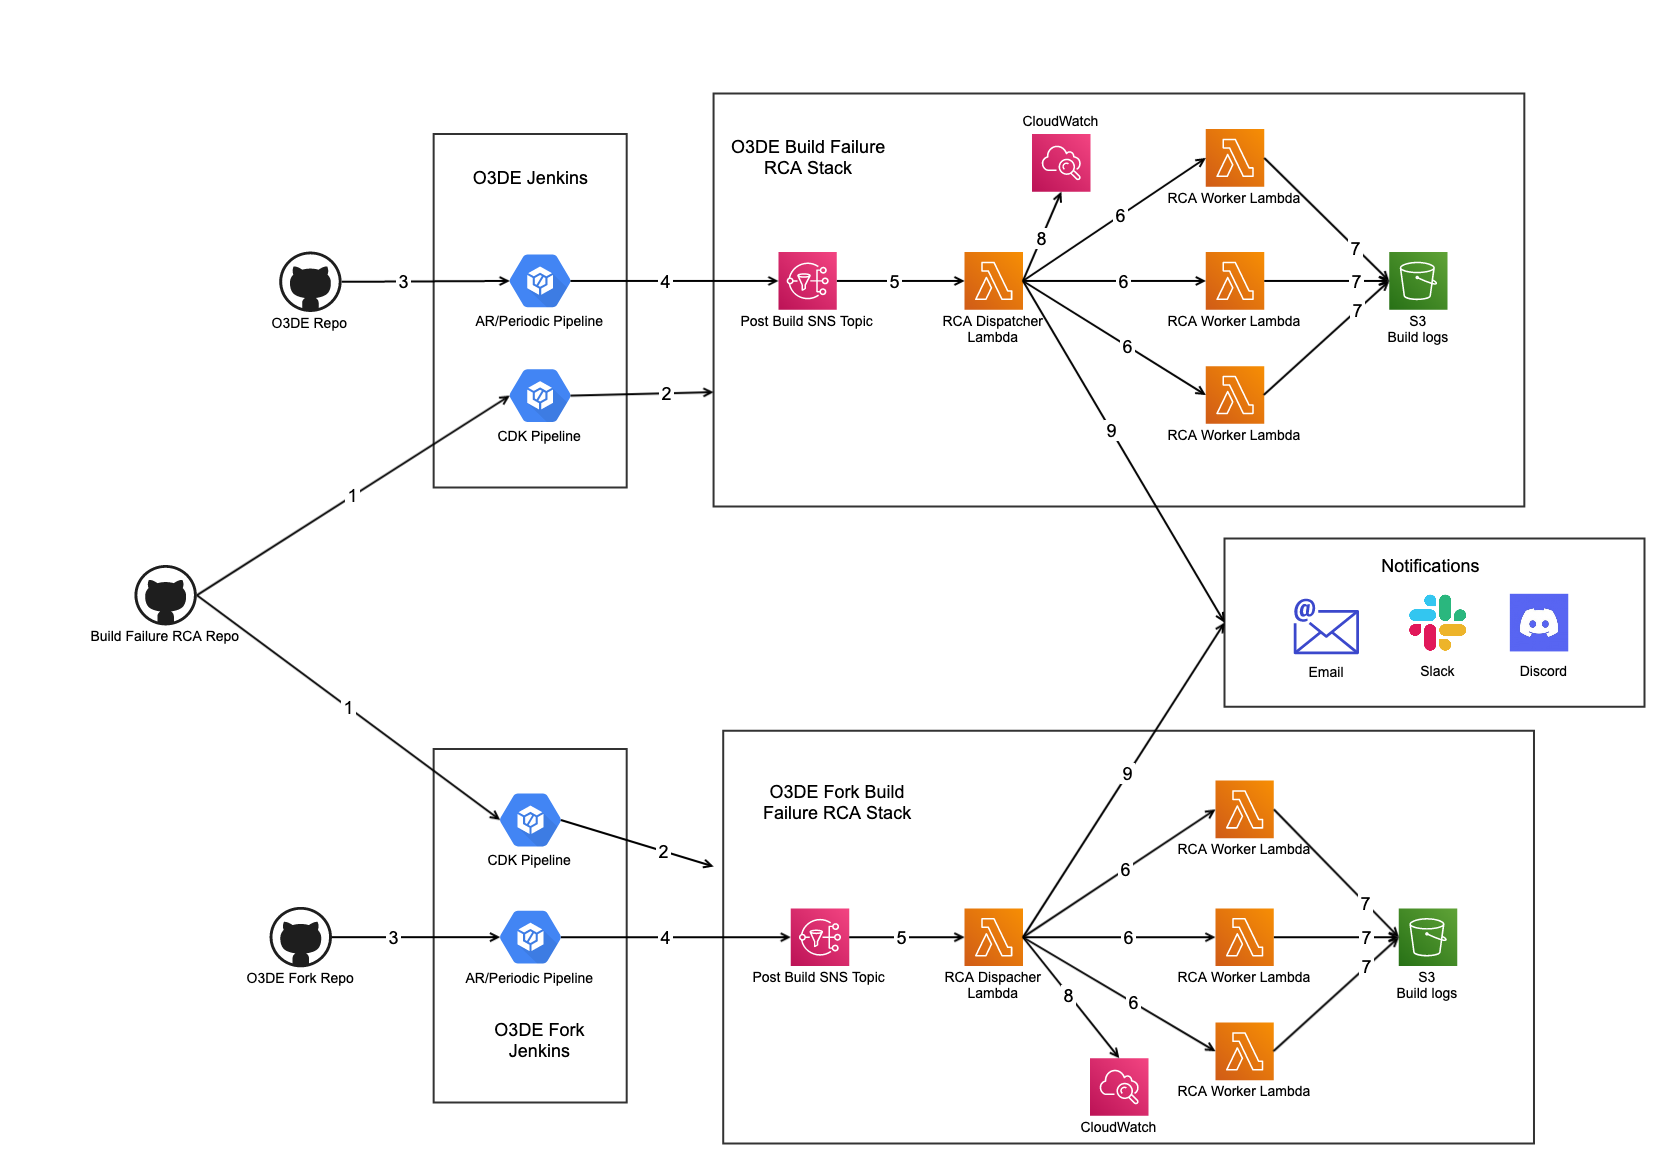
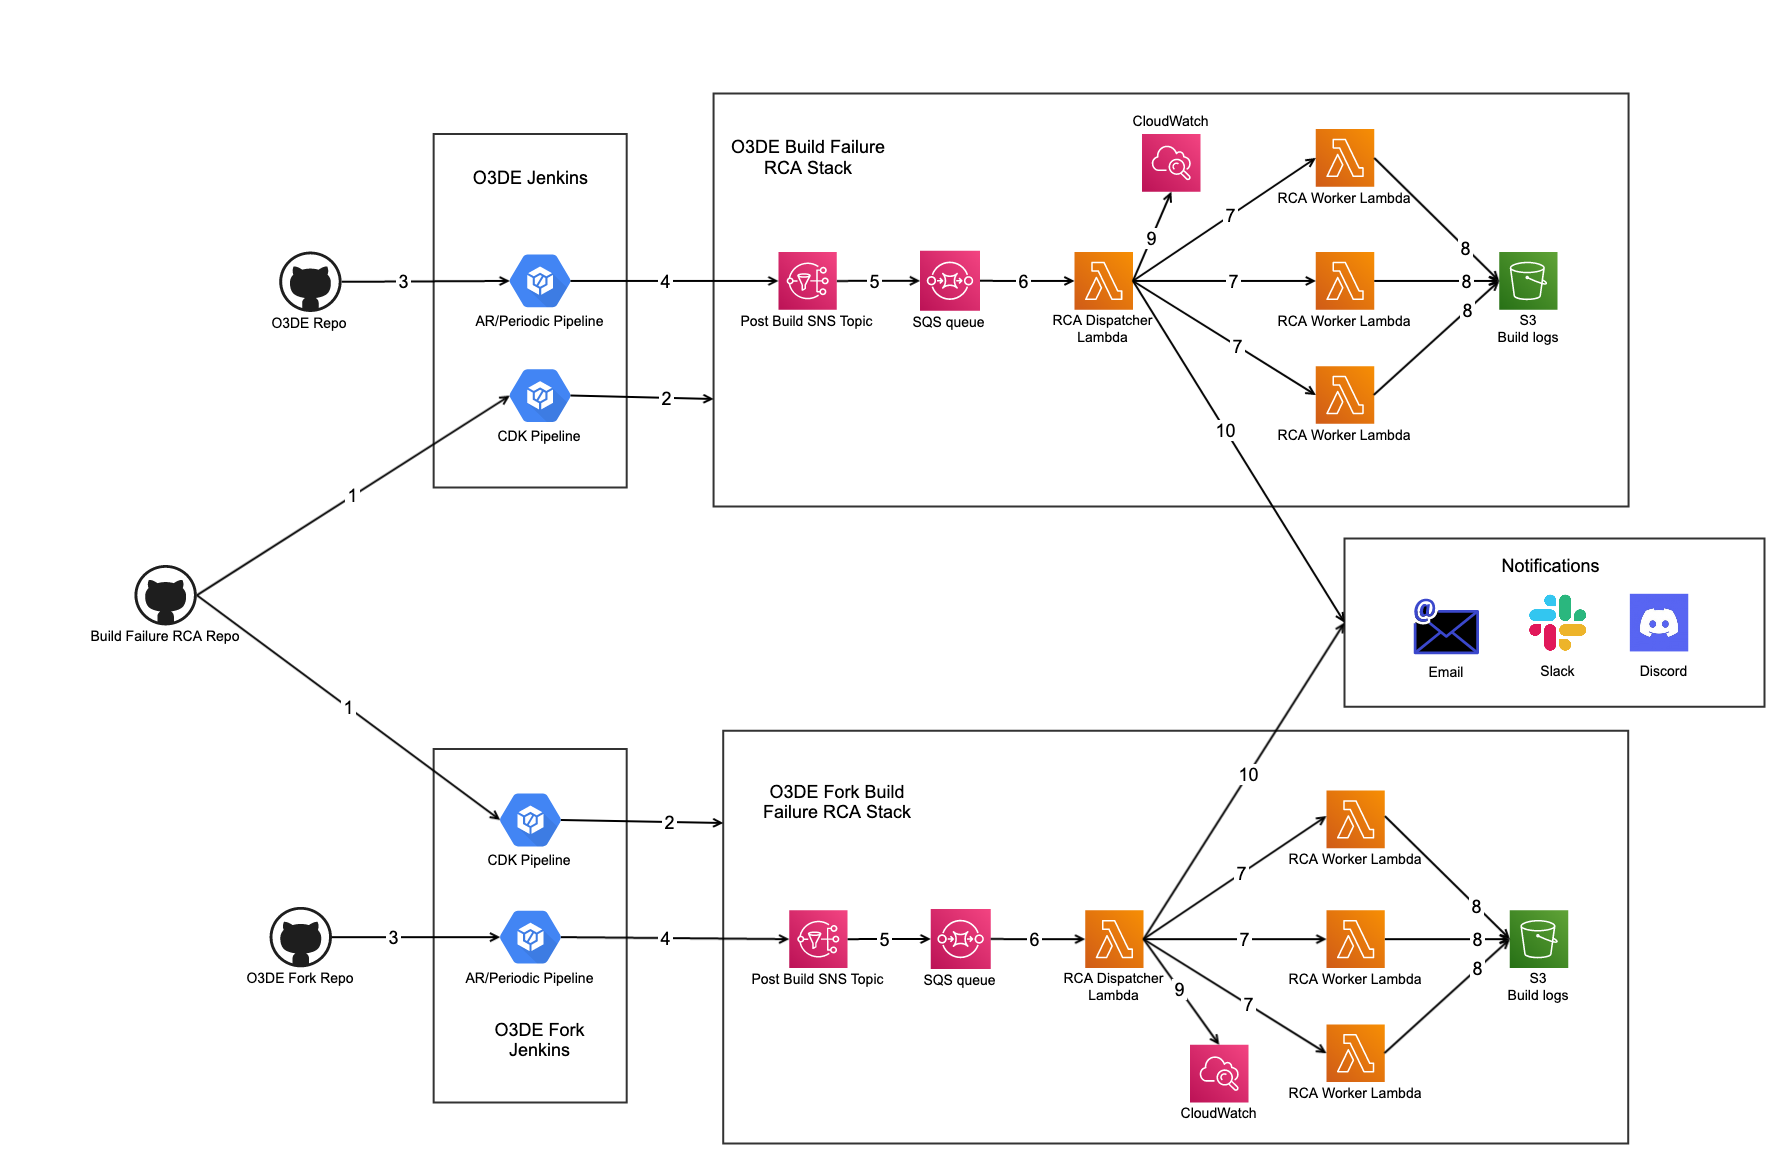
Add build failure RCA patterns and add SQS queue for rate limiting based on comments

diff --git a/rfcs/rfc-bld-20220623-1-build-failure-rca.md b/rfcs/rfc-bld-20220623-1-build-failure-rca.md
@@ -36,15 +36,17 @@ Build failure RCA system is deployed by CDK, it can be easily deployed to differ
 
 Build failure RCA CDK Stack consists of following AWS resources:
 
-1. **Post Build SNS Topic:** SNS topic is used to receive post build message from AR/Periodic builds, and it triggers Lambda function to do build failure RCA.
+1. **Post Build SNS Topic:** SNS topic is used to receive post build message from AR/Periodic builds, and it feeds the data to SQS queue.
 
-2. **RCA Dispatcher Lambda Function:** RCA dispatcher lambda function is triggered by post build SNS topic, it retrieves AR/Periodic build data and dispatch the actual RCA work for each build platform/configuration to separate lambda functions. Once it received the RCA result from RCA worker lambda function, it uploads the RCA result to CloudWatch. If notification is enabled, it will send build failure notifications via email, Discord or Slack.
+2. **SQS Queue:** In case SNS topic reaches rate limiting and discard unprocessed data, SQS queue is used to receive post build message from Post Build SNS Topic, and it triggers Lambda function to do build failure RCA.
 
-3. **RCA Worker Lambda Function:** RCA worker lambda function retrieves build log of a certain build platform/configuration, it scans the build log and search for log messages that match build failure RCA patterns, once the RCA work is done, it uploads the build log to S3 and return RCA result to RCA dispatcher lambda function.
+3. **RCA Dispatcher Lambda Function:** RCA dispatcher lambda function is triggered by post build SNS topic, it retrieves AR/Periodic build data and dispatch the actual RCA work for each build platform/configuration to separate lambda functions. Once it received the RCA result from RCA worker lambda function, it uploads the RCA result to CloudWatch. If notification is enabled, it will send build failure notifications via email, Discord or Slack.
 
-4. **Build Log S3 Bucket:** Build log S3 bucket is used to store build logs grouped by build platform/configuration.
+4. **RCA Worker Lambda Function:** RCA worker lambda function retrieves build log of a certain build platform/configuration, it scans the build log and search for log messages that match build failure RCA patterns, once the RCA work is done, it uploads the build log to S3 and return RCA result to RCA dispatcher lambda function.
 
-5. **CloudWatch Metrics:** CloudWatch metrics is used to store build failure RCA result.
+5. **Build Log S3 Bucket:** Build log S3 bucket is used to store build logs grouped by build platform/configuration.
+
+6. **CloudWatch Metrics:** CloudWatch metrics is used to store build failure RCA result.
 
 #### CDK Deployment pipeline
 The CDK deployment pipeline is a Jenkins pipeline that deploys build failure RCA CDK stack on build failure RCA repo change events.
@@ -124,7 +126,63 @@ to get the build log of a certain build platform/configuration.
 #### Build Failure RCA Patterns
 RCA worker lambda function scans the build log and search for log messages that match build failure RCA patterns.
 
-Current build RCA patterns from https://github.com/aws-lumberyard/build-failure-rca/tree/main/build-failure-rca/rca-patterns can be reused.
+Build failure RCA pattern is in below JSON format:
+- **name:** Name of the build failure pattern.
+- **description:** Description of the pattern, it's used to describe the build failure.
+- **comment:** Comment to the build failure pattern.
+- **category:** Build failure category.
+- **single_line:** Log pattern regex tries to match single line if this is true, otherwise, Log pattern regex tries to match multi-lines.
+- **find_all:** Find all occurrences that match log patterns if this is ture, otherwise, it stops searching on first occurrence.
+- **log_patterns:** A list of regex string to match with the build logs.
+- **log_testcases:** Test cases that are used to validate the pattern regex.
+- **owners:** A list of failure owners. If a value starts with @, a customized function will be executed and return the owner. For example, if a value is @asset_processing, a customized function asset_processing will read the parsed error message and return the owner of failed asset file.
+
+Example of a RCA pattern that matches single line, and it will find all occurrences.
+```
+{
+  "indications": [
+    {
+      "name": "Asset Processing",
+      "description": "Asset Processing error",
+      "comment": "Asset Processing error, see log for more details",
+      "single_line": true,
+      "find_all": true,
+      "log_patterns": [
+        "^.*AssetProcessor: JOB LOG:.*ERROR.*$"
+      ],
+      "log_testcases": [
+        "AssetProcessor: JOB LOG: 5/26/2021 10:11 PM | ERROR"
+      ],
+      "owners": [
+        "@asset_processing"
+      ]
+    }
+  ]
+}
+```
+Example of a RCA pattern that matches multi line, and it will stop searching after first occurrence is found.
+```
+{
+  "indications": [
+    {
+      "name": "CTest failure(s)/error(s)",
+      "description": "Errors while running CTest",
+      "comment": "Errors while running CTest",
+      "single_line": false,
+      "find_all": false,
+      "log_patterns": [
+        "The following tests FAILED:.*Errors while running CTest"
+      ],
+      "log_testcases": [
+        "The following tests FAILED:"
+      ],
+      "owners": [
+        "@ctest"
+      ]
+    }
+  ]
+}
+```
 
 #### Workflow
 ![workflow](rfc-bld-20220623-1-build-failure-rca/workflow.png)
@@ -133,11 +191,12 @@ Current build RCA patterns from https://github.com/aws-lumberyard/build-failure-
 2. The build failure RCA CDK deployment pipeline deploys build failure RCA CDK stack to AWS accounts that are using build failure RCA system.
 3. Change in O3DE repo or O3DE fork repo triggers the AR or Periodic builds.
 4. After each AR or Periodic build completes, it publishes build data to post build SNS topic.
-5. Post build SNS topic triggers the RCA dispatcher lambda function.
-6. RCA dispatcher lambda function retrieves AR/Periodic build data and dispatch the actual RCA work for each build platform/configuration to separate RCA worker lambda functions. 
-7. RCA worker lambda function retrieves build log of a certain build platform/configuration, it scans the build log and search for log messages that match build failure RCA patterns, once the RCA work is done, it uploads the build log to S3 and return RCA result to RCA dispatcher lambda function.
-8. Once RCA dispatcher received the RCA result from RCA worker, it uploads the RCA result to CloudWatch metrics.
-9. Once RCA dispatcher received the RCA result from RCA worker, it sends build failure notifications via email, Discord or Slack.
+5. Post build SNS topic send post build data to SQS queue.
+6. SQS queue triggers the RCA dispatcher lambda function.
+7. RCA dispatcher lambda function retrieves AR/Periodic build data and dispatch the actual RCA work for each build platform/configuration to separate RCA worker lambda functions. 
+8. RCA worker lambda function retrieves build log of a certain build platform/configuration, it scans the build log and search for log messages that match build failure RCA patterns, once the RCA work is done, it uploads the build log to S3 and return RCA result to RCA dispatcher lambda function.
+9. Once RCA dispatcher received the RCA result from RCA worker, it uploads the RCA result to CloudWatch metrics.
+10. Once RCA dispatcher received the RCA result from RCA worker, it sends build failure notifications via email, Discord or Slack.
 
 ### What are the advantages of the feature?
 - It offloads build failure RCA work from Jenkins server to lambda functions, and thus reduce loads on Jenkins server.
@@ -164,4 +223,4 @@ Yes, an alternative is to write a Jenkins plugin that can offload build failure 
 - Can this build failure RCA system be used for any Jenkins pipeline build other than O3DE builds?
   - Yes, this biuld failure RCA system is not tied to O3DE builds, it can be used in any Jenkins pipeline build.
     
-
+- How do you hand
